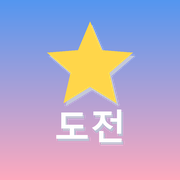
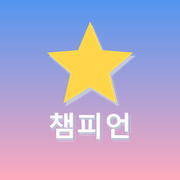
꼬마 챔피언으로 합치기: 초2~4학년, 수상 가능성·참가비·환경/과학 태그, 새 대회 9개

Changed region(s): [[0.2778, 0.5833, 0.7222, 0.8056]]

diff --git a/index.html b/index.html
@@ -8,8 +8,8 @@
 <link rel="icon" href="icon-192.png">
 <link rel="apple-touch-icon" href="apple-touch-icon.png">
 <meta name="apple-mobile-web-app-capable" content="yes">
-<meta name="apple-mobile-web-app-title" content="도전! 꿈나무">
-<title>도전! 꿈나무</title>
+<meta name="apple-mobile-web-app-title" content="꼬마 챔피언">
+<title>꼬마 챔피언</title>
 <link rel="preconnect" href="https://fonts.googleapis.com">
 <link rel="preconnect" href="https://fonts.gstatic.com" crossorigin>
 <link rel="stylesheet" href="https://fonts.googleapis.com/css2?family=Jua&family=Noto+Sans+KR:wght@400;500;700&display=swap">
@@ -152,6 +152,12 @@ a.main:hover .name { color: var(--accent); }
 .empty { background: var(--paper-soft); border-radius: 16px; padding: 22px 18px; color: var(--muted); text-align: center; font-size: 14px; }
 .prize { align-self: flex-start; font-size: 12.5px; border-radius: 8px; padding: 2px 9px; margin-top: 2px; overflow-wrap: anywhere; }
 .prize b { font-weight: 700; }
+.odds { font-size: 12.5px; color: var(--muted); overflow-wrap: anywhere; }
+.odds b { font-weight: 700; }
+.odds.high b { color: var(--calm); }
+.odds.mid b { color: var(--warm); }
+.odds.low b { color: var(--none); }
+.tag.t2 { background: var(--calm-bg); color: var(--calm); }
 .prize.cash { background: var(--gold-bg); color: var(--gold); }
 .prize.gift { background: var(--none-bg); color: var(--none); }
 .soon { font-size: 11.5px; color: var(--accent); font-weight: 700; margin-left: 6px; white-space: nowrap; }
@@ -170,8 +176,8 @@ button:focus-visible, a:focus-visible, input:focus-visible { outline: 3px solid 
   <header>
     <img src="icon-192.png" alt="">
     <div>
-      <h1>도전! 꿈나무</h1>
-      <p class="sub">초등 2·3학년이 나갈 수 있는 외부 대회</p>
+      <h1>꼬마 챔피언</h1>
+      <p class="sub">초등 2~4학년이 나갈 수 있는 외부 대회</p>
     </div>
     <button type="button" class="install" id="install" hidden>앱 설치</button>
   </header>
@@ -203,8 +209,10 @@ button:focus-visible, a:focus-visible, input:focus-visible { outline: 3px solid 
       <button type="button" id="f-all" data-f="all" aria-pressed="true">전체</button>
       <button type="button" id="f-art" data-f="그림" aria-pressed="false">그림·포스터</button>
       <button type="button" id="f-write" data-f="글" aria-pressed="false">글짓기</button>
-      <button type="button" id="f-sci" data-f="과학" aria-pressed="false">과학·발명</button>
+      <button type="button" id="f-sci" data-f="과학" aria-pressed="false">과학·수학</button>
+      <button type="button" id="f-env" data-f="env" aria-pressed="false">환경</button>
       <button type="button" id="f-prize" data-f="prize" aria-pressed="false">상금 있는 대회</button>
+      <button type="button" id="f-odds" data-f="odds" aria-pressed="false">상 받기 좋은 대회</button>
     </div>
 
     <section>
@@ -240,6 +248,9 @@ function start(data) {
   function isPast(c) { return !!c.end && parse(c.end) < today; }
   function byField(c) {
     if (filter === "prize") return !!(c.prize && c.prize.type === "상금");
+    if (filter === "odds") return c.odds === "높음";
+    if (filter === "env") return (c.tags || []).indexOf("환경") >= 0;
+    if (filter === "과학") return c.field === "과학" || c.field === "수학" || (c.tags || []).some(function (t) { return t === "과학" || t === "수학" || t === "AI"; });
     return filter === "all" || c.field === filter;
   }
   function byEnd(a, b) { if (!a.end) return 1; if (!b.end) return -1; return parse(a.end) - parse(b.end); }
@@ -252,6 +263,12 @@ function start(data) {
       note = "<span class=\"prize " + (c.prize.type === "상금" ? "cash" : "gift") + "\"><b>" + esc(c.prize.type) + "</b>" +
         (c.prize.text ? " " + esc(c.prize.text) : "") + "</span>" + note;
     }
+    if (c.odds) {
+      var oc = c.odds === "높음" ? "high" : c.odds === "낮음" ? "low" : "mid";
+      note += "<span class=\"odds " + oc + "\"><b>수상 가능성 " + esc(c.odds) + "</b>" + (c.oddsReason ? " · " + esc(c.oddsReason) : "") + "</span>";
+    }
+    var tags = (c.tags || []).filter(function (t) { return t !== c.field; }).map(function (t) { return "<span class=\"tag t2\">" + esc(t) + "</span>"; }).join("");
+    var fee = c.fee ? " · " + esc(c.fee) : "";
     var btn = "";
     if (opts.applyable) {
       var on = !!applied[id(c)];
@@ -267,7 +284,7 @@ function start(data) {
       "<div class=\"chip " + chipCls + "\">" + chipHtml + "</div>" +
       "<div class=\"body\"><span class=\"name\">" + esc(c.name) + (opts.extra || "") + "</span>" +
       "<span class=\"when\">" + whenHtml + "</span>" +
-      "<span class=\"meta\"><span class=\"tag\">" + esc(c.field) + "</span>" + esc(c.target) + org + "</span>" + note + "</div></a>" +
+      "<span class=\"meta\"><span class=\"tag\">" + esc(c.field) + "</span>" + tags + esc(c.target) + org + fee + "</span>" + note + "</div></a>" +
       "<div class=\"bar\"><a class=\"go\" href=\"" + esc(c.url) + "\" target=\"_blank\" rel=\"noopener\">사이트 열기 ↗</a><span class=\"acts\">" + btn + "</span></div></li>";
   }
 
